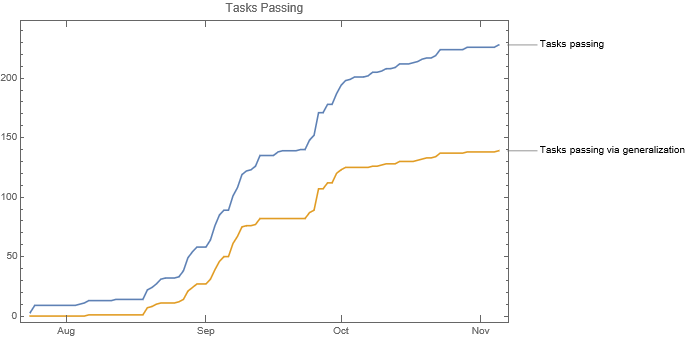
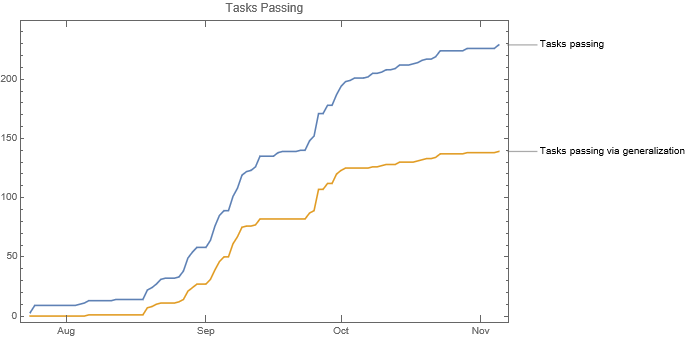
868de0fa
Include notable sub images in the rule data structure, so that they can
be used when applying rules later.

diff --git a/README.md b/README.md
@@ -8,9 +8,9 @@ https://github.com/fchollet/ARC
 
 ## Percentage of Tasks Passing
 
-* Training tasks: 173 / 400 (43.2%)\
+* Training tasks: 174 / 400 (43.5%)\
   ![Percentage of Training Tasks Passing](TrainingTasksProgressBar.png?raw=true)
-  * Implemented: 86
+  * Implemented: 87
   * Passing via generalization: 87
 * Evaluation tasks: 58 / 400 (14.5%)\
   ![Percentage of Evaluation Tasks Passing](EvaluationTasksProgressBar.png?raw=true)
@@ -21,7 +21,7 @@ https://github.com/fchollet/ARC
 
 ## Tasks Implemented
 
-### Core ARC Training Tasks (86)
+### Core ARC Training Tasks (87)
 
 * [0ca9ddb6](TaskNotes/0ca9ddb6/notes.md)
 * [3c9b0459](TaskNotes/3c9b0459/notes.md)
@@ -109,6 +109,7 @@ https://github.com/fchollet/ARC
 * [d364b489](TaskNotes/d364b489/notes.md)
 * [1e0a9b12](TaskNotes/1e0a9b12/notes.md)
 * [7e0986d6](TaskNotes/7e0986d6/notes.md)
+* 868de0fa
 
 ### Personally Created Training Tasks (15)
 
